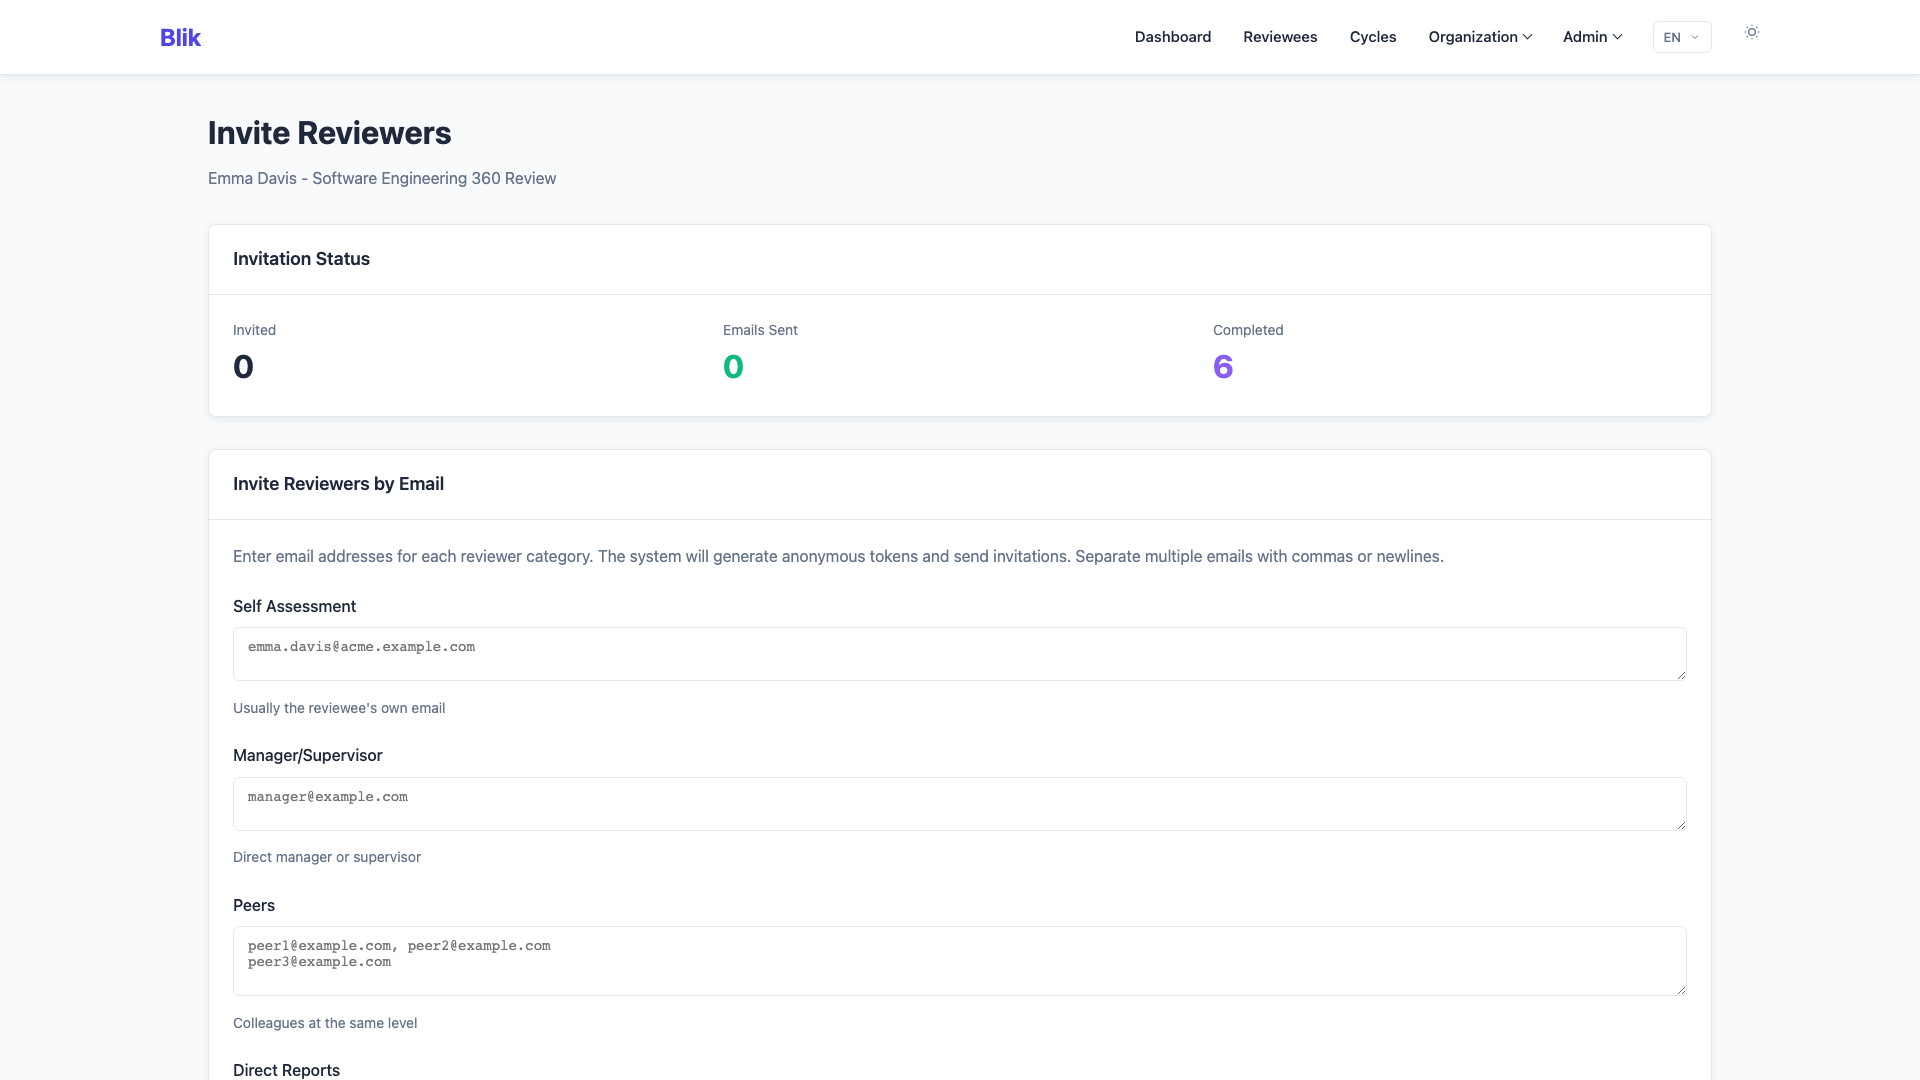
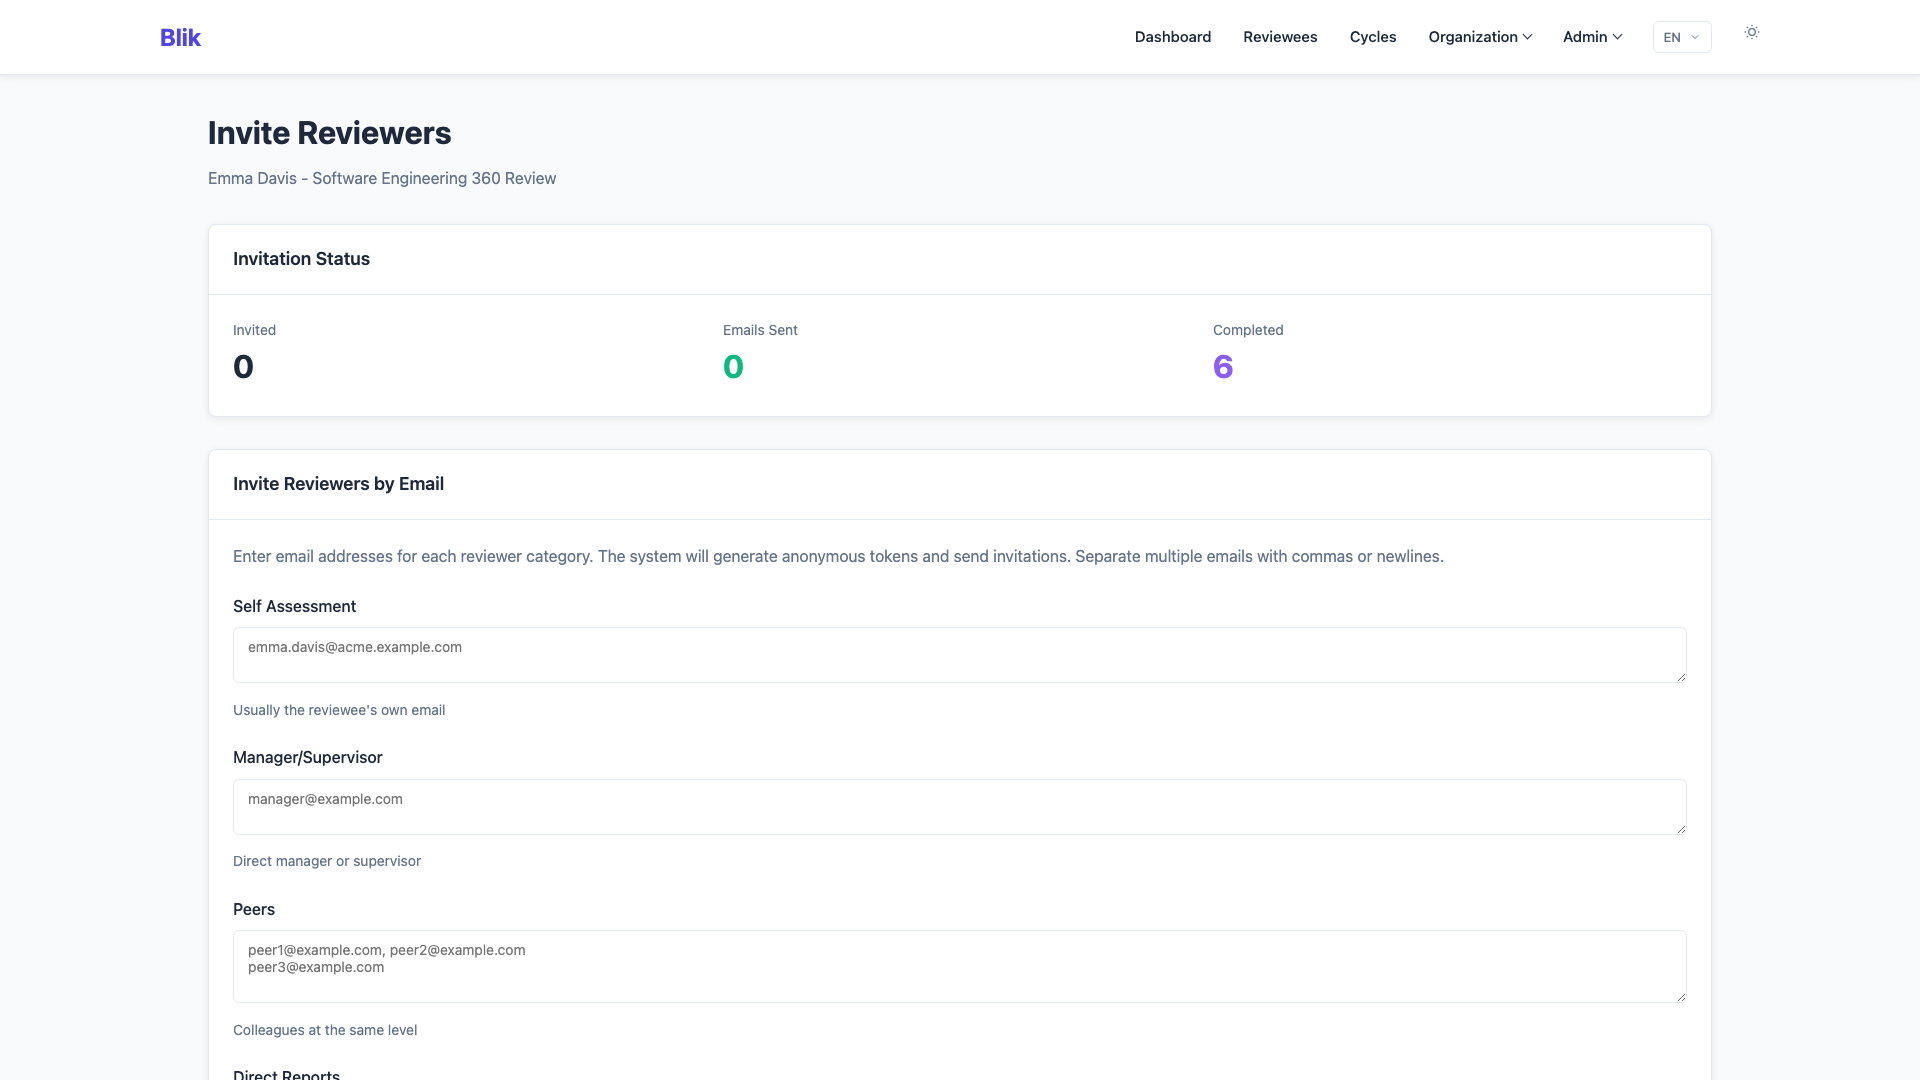
Add a dark invitations screenshot to the homepage
The homepage step showed only the light capture, so it did not switch
on hover or in dark mode like the other steps.

Changed region(s): [[0.125, 0.6417, 0.2812, 1.0], [0.125, 0.5806, 0.25, 0.6111]]

diff --git a/templates/landing/index.html b/templates/landing/index.html
@@ -252,7 +252,10 @@
             <h2 class="section-title">How it works</h2>
             <div class="steps">
                 <div class="step">
-                    <div class="step-media"><img src="{% static 'img/screenshots/invitations_desktop_light.webp' %}" alt="Inviting reviewers for a review cycle" loading="lazy"></div>
+                    <div class="step-media">
+                        <img class="img-light" src="{% static 'img/screenshots/invitations_desktop_light.webp' %}" alt="Inviting reviewers for a review cycle" loading="lazy">
+                        <img class="img-dark" src="{% static 'img/screenshots/invitations_desktop_dark.webp' %}" alt="" loading="lazy">
+                    </div>
                     <h3>Add people, pick a questionnaire</h3>
                     <p>Add the person being reviewed, choose one of four questionnaires or your own, and list who should give feedback.</p>
                 </div>

diff --git a/core/management/commands/capture_screenshots.py b/core/management/commands/capture_screenshots.py
@@ -473,6 +473,13 @@ class Command(BaseCommand):
                     'theme': 'light',
                     'wait_for': '#inviteForm',
                 },
+                {
+                    'name': 'invitations_desktop_dark',
+                    'url': f'{base_url}/dashboard/cycles/{config["partial_cycle_uuid"]}/invitations/',
+                    'viewport': {'width': 1920, 'height': 1080},
+                    'theme': 'dark',
+                    'wait_for': '#inviteForm',
+                },
             ])
 
             # "How Blik works" flow: sign up, configure, add reviewees, start a cycle

diff --git a/docs/SCREENSHOTS.md b/docs/SCREENSHOTS.md
@@ -84,7 +84,7 @@ Uses Playwright to capture screenshots of key pages.
 - Admin dashboard (desktop light/dark, mobile light/dark) - 4 screenshots
 - Review cycle detail (desktop light/dark) - 2 screenshots
 - Team management (desktop light/dark) - 2 screenshots
-- Manage invitations (desktop light) - 1 screenshot
+- Manage invitations (desktop light/dark) - 2 screenshots
 - Feedback form (desktop light/dark, mobile light/dark) - 4 screenshots
 
 **Total: 19 screenshots**
